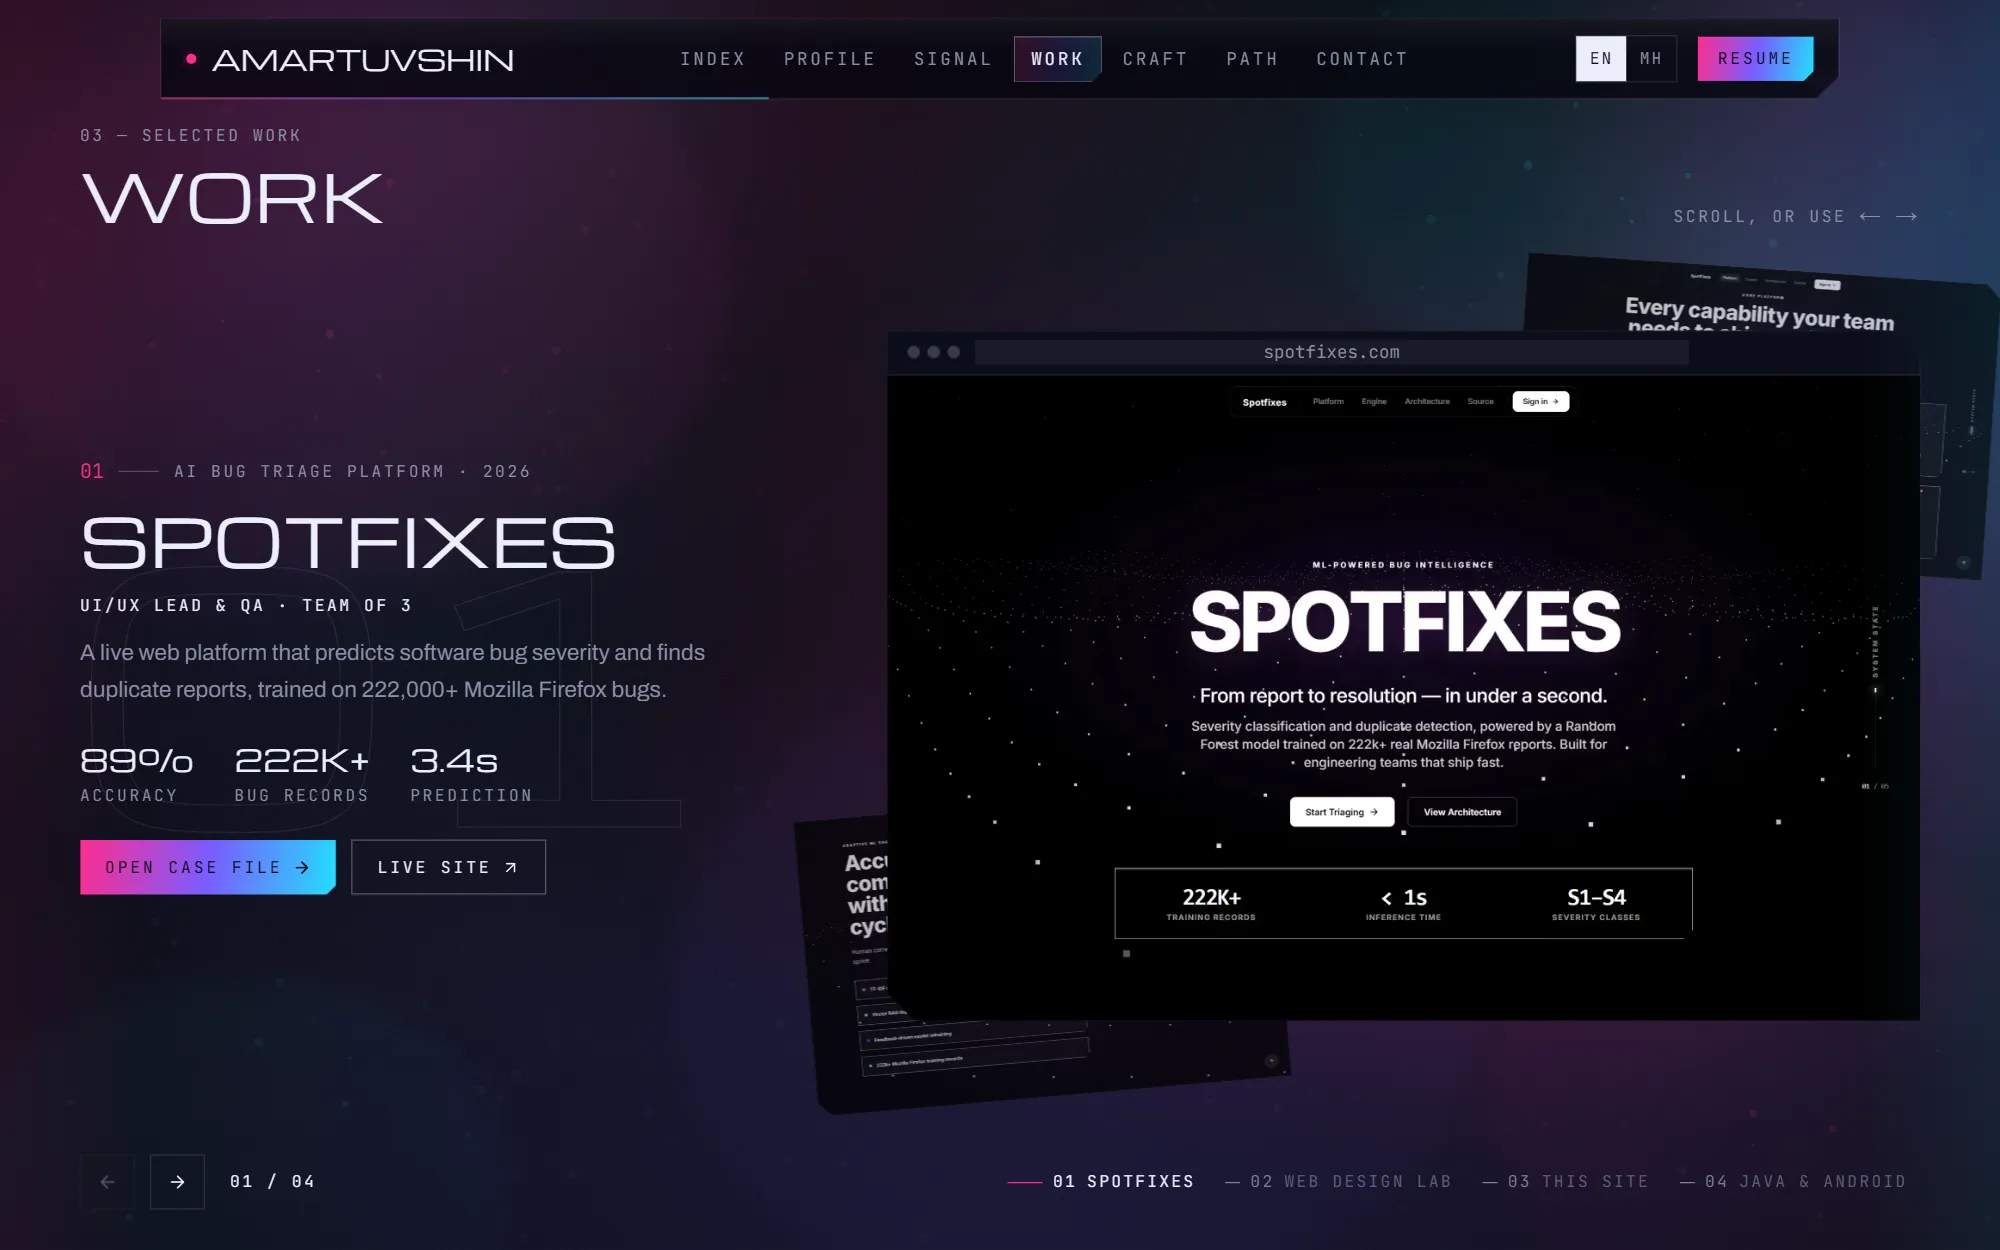
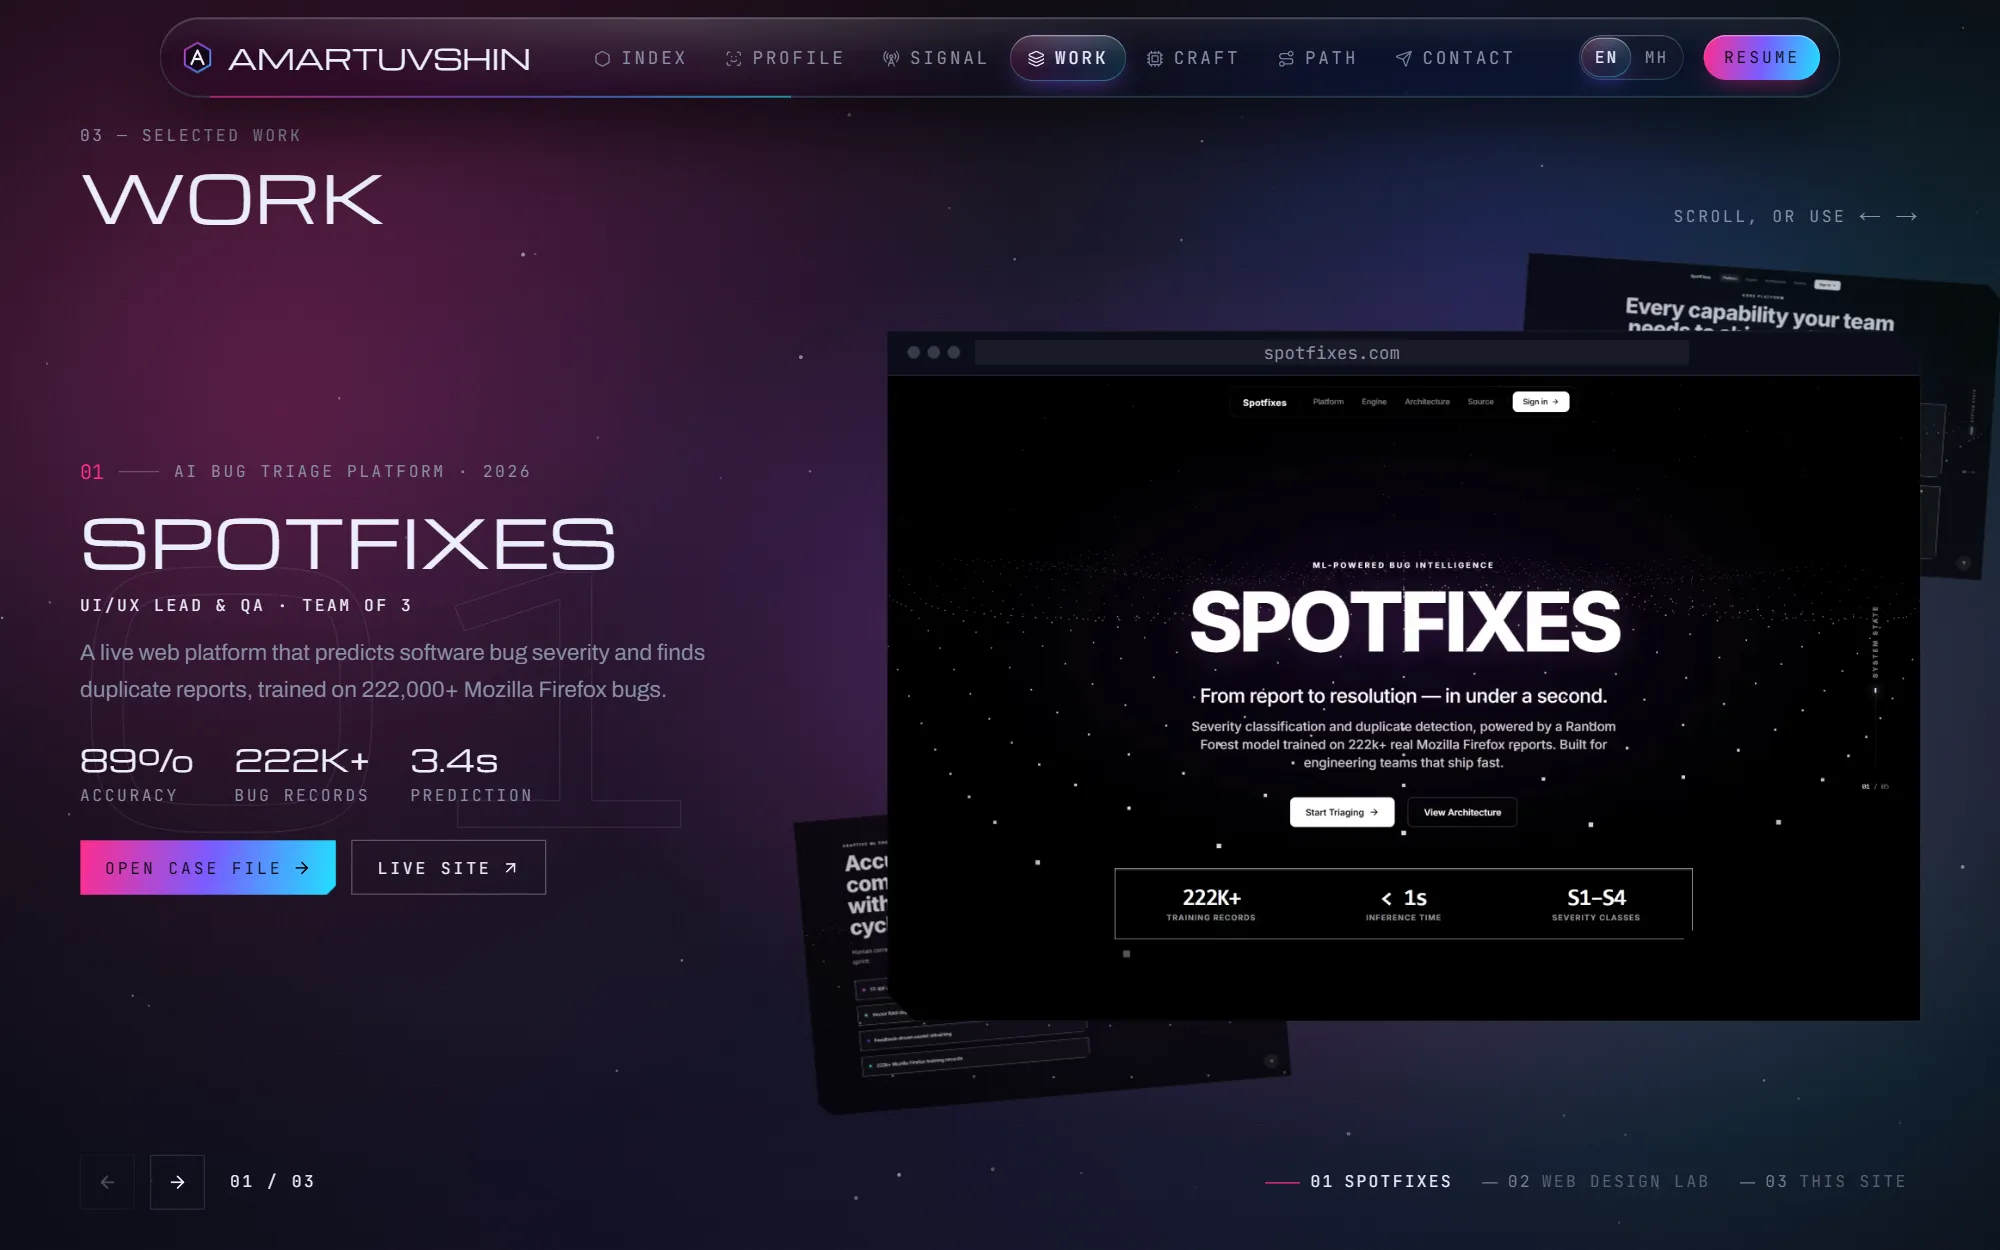
craft: a phone type scale for the panels; fresh site screenshots
On a 390px screen a panel is shown at about a third of its texture size,
so the desktop scale set the description near 11px. Phones now get a
larger baked-in scale (~15px on screen), a slightly wider panel and a
shorter stage; tags stop before they would run into the proof footer.

The axe script's note on its canvas exclusion now names the carousel,
and portfolio*.webp are re-captured from a production build.

diff --git a/src/components/craft/panelTexture.ts b/src/components/craft/panelTexture.ts
@@ -93,13 +93,28 @@ function ramp(ctx: CanvasRenderingContext2D, x0: number, y0: number, x1: number,
   return g;
 }
 
-export async function drawPanels(specs: PanelSpec[]): Promise<HTMLCanvasElement[]> {
+/** Type scale per layout. `compact` is for phones, where a panel is shown at
+    about a third of its texture size and the desktop scale would set the
+    description near 11px. */
+const SCALES = {
+  regular: { title: 80, titleLead: 86, body: 40, bodyLead: 56, bodyLines: 6, tag: 30 },
+  compact: { title: 100, titleLead: 104, body: 50, bodyLead: 66, bodyLines: 5, tag: 36 },
+};
+
+export async function drawPanels(
+  specs: PanelSpec[],
+  compact = false
+): Promise<HTMLCanvasElement[]> {
   const faces = readFaces();
   await loadFaces(faces, specs.map((s) => `${s.title} ${s.description} ${s.proofLabel ?? ""}`).join(" "));
-  return Promise.all(specs.map((s) => drawPanel(s, faces)));
+  return Promise.all(specs.map((s) => drawPanel(s, faces, SCALES[compact ? "compact" : "regular"])));
 }
 
-async function drawPanel(spec: PanelSpec, f: Faces): Promise<HTMLCanvasElement> {
+async function drawPanel(
+  spec: PanelSpec,
+  f: Faces,
+  k: (typeof SCALES)["regular"]
+): Promise<HTMLCanvasElement> {
   const canvas = document.createElement("canvas");
   canvas.width = PANEL_W;
   canvas.height = PANEL_H;
@@ -160,42 +175,45 @@ async function drawPanel(spec: PanelSpec, f: Faces): Promise<HTMLCanvasElement> 
 
   /* Title. */
   let y = PAD + chip + 70;
-  ctx.font = `700 80px ${f.tech}`;
+  ctx.font = `700 ${k.title}px ${f.tech}`;
   ctx.letterSpacing = "0px";
   ctx.fillStyle = "#eceefb";
   for (const line of wrap(ctx, spec.title.toUpperCase(), PANEL_W - PAD * 2, 3)) {
     ctx.fillText(line, PAD, y);
-    y += 86;
+    y += k.titleLead;
   }
 
   /* Description. */
   y += 30;
-  ctx.font = `400 40px ${f.sans}`;
+  ctx.font = `400 ${k.body}px ${f.sans}`;
   ctx.fillStyle = "rgba(200,204,232,0.92)";
-  for (const line of wrap(ctx, spec.description, PANEL_W - PAD * 2, 6)) {
+  for (const line of wrap(ctx, spec.description, PANEL_W - PAD * 2, k.bodyLines)) {
     ctx.fillText(line, PAD, y);
-    y += 56;
+    y += k.bodyLead;
   }
 
-  /* Tags, as pills. */
+  /* Tags, as pills — as many as fit above the proof footer. */
   y += 36;
-  ctx.font = `500 30px ${f.mono}`;
+  const tagFloor = spec.proofTitle ? PANEL_H - PAD - 96 - 60 : PANEL_H - PAD;
+  const pillH = k.tag + 26;
+  ctx.font = `500 ${k.tag}px ${f.mono}`;
   ctx.letterSpacing = "1px";
   let x = PAD;
   for (const tag of spec.tags) {
     const w = ctx.measureText(tag).width + 48;
     if (x + w > PANEL_W - PAD) {
       x = PAD;
-      y += 70;
+      y += pillH + 14;
     }
-    roundRect(ctx, x, y, w, 56, 28);
+    if (y + pillH > tagFloor) break;
+    roundRect(ctx, x, y, w, pillH, pillH / 2);
     ctx.fillStyle = "rgba(236,238,251,0.06)";
     ctx.fill();
     ctx.lineWidth = 2;
     ctx.strokeStyle = "rgba(236,238,251,0.22)";
     ctx.stroke();
     ctx.fillStyle = "rgba(236,238,251,0.9)";
-    ctx.fillText(tag, x + 24, y + 13);
+    ctx.fillText(tag, x + 24, y + (pillH - k.tag) / 2);
     x += w + 14;
   }
 

diff --git a/src/components/craft/LiquidGlassCarousel.tsx b/src/components/craft/LiquidGlassCarousel.tsx
@@ -35,6 +35,16 @@ export function LiquidGlassCarousel({ onFail }: { onFail: () => void }) {
   const [active, setActive] = useState(0);
   const [focused, setFocused] = useState(false);
   const [ready, setReady] = useState(false);
+  /* Phones get a larger type scale baked into the panels. */
+  const [compact, setCompact] = useState(false);
+
+  useEffect(() => {
+    const mq = window.matchMedia("(max-width: 639px)");
+    const update = () => setCompact(mq.matches);
+    update();
+    mq.addEventListener("change", update);
+    return () => mq.removeEventListener("change", update);
+  }, []);
   const labelId = useId();
 
   useEffect(() => {
@@ -44,8 +54,8 @@ export function LiquidGlassCarousel({ onFail }: { onFail: () => void }) {
   const current = items[active] ?? items[0];
   const proof = current.proof ? c.projects.find((p) => p.slug === current.proof) : undefined;
 
-  /* Build the panels, then the engine. Rebuilt on a language change, because
-     the text is baked into the textures. */
+  /* Build the panels, then the engine. Rebuilt on a language or layout
+     change, because the text is baked into the textures. */
   useEffect(() => {
     const mount = mountRef.current;
     const iconHost = iconsRef.current;
@@ -67,7 +77,7 @@ export function LiquidGlassCarousel({ onFail }: { onFail: () => void }) {
       };
     });
 
-    drawPanels(specs).then((canvases) => {
+    drawPanels(specs, compact).then((canvases) => {
       if (cancelled) return;
       engine = createCarousel(mount, cursorRef.current, {
         items: canvases.map((canvas) => ({ canvas })),
@@ -93,7 +103,7 @@ export function LiquidGlassCarousel({ onFail }: { onFail: () => void }) {
     };
     /* `c` and `t` change identity with `locale`; the locale is the real key. */
     // eslint-disable-next-line react-hooks/exhaustive-deps
-  }, [locale]);
+  }, [locale, compact]);
 
   const onKeyDown = (e: KeyboardEvent<HTMLDivElement>) => {
     const eng = engineRef.current;
@@ -115,7 +125,7 @@ export function LiquidGlassCarousel({ onFail }: { onFail: () => void }) {
 
   return (
     <div
-      className="relative h-[min(86vh,820px)] w-full"
+      className="relative h-[min(72vh,640px)] w-full sm:h-[min(86vh,820px)]"
       tabIndex={0}
       role="region"
       aria-roledescription="carousel"

diff --git a/src/components/craft/carouselEngine.ts b/src/components/craft/carouselEngine.ts
@@ -250,7 +250,7 @@ export function createCarousel(
   let W = Math.max(1, mount.clientWidth);
   let H = Math.max(1, mount.clientHeight);
   const panelHFor = () =>
-    Math.max(160, Math.min(options.panelHeight, Math.round(H * 0.74), Math.round(W * 1.02)));
+    Math.max(160, Math.min(options.panelHeight, Math.round(H * 0.74), Math.round(W * 1.12)));
   let PANEL_H = panelHFor();
   const GAP = options.gap;
   const EASE = reduced ? 0.28 : 0.09;

diff --git a/src/components/sections/Capabilities.tsx b/src/components/sections/Capabilities.tsx
@@ -72,7 +72,7 @@ export function Capabilities() {
         </div>
 
         {carousel ? (
-          <div ref={stageRef} className="mt-10 min-h-[min(86vh,820px)]">
+          <div ref={stageRef} className="mt-10 min-h-[min(72vh,640px)] sm:min-h-[min(86vh,820px)]">
             {near && <LiquidGlassCarousel onFail={() => setFailed(true)} />}
           </div>
         ) : (
